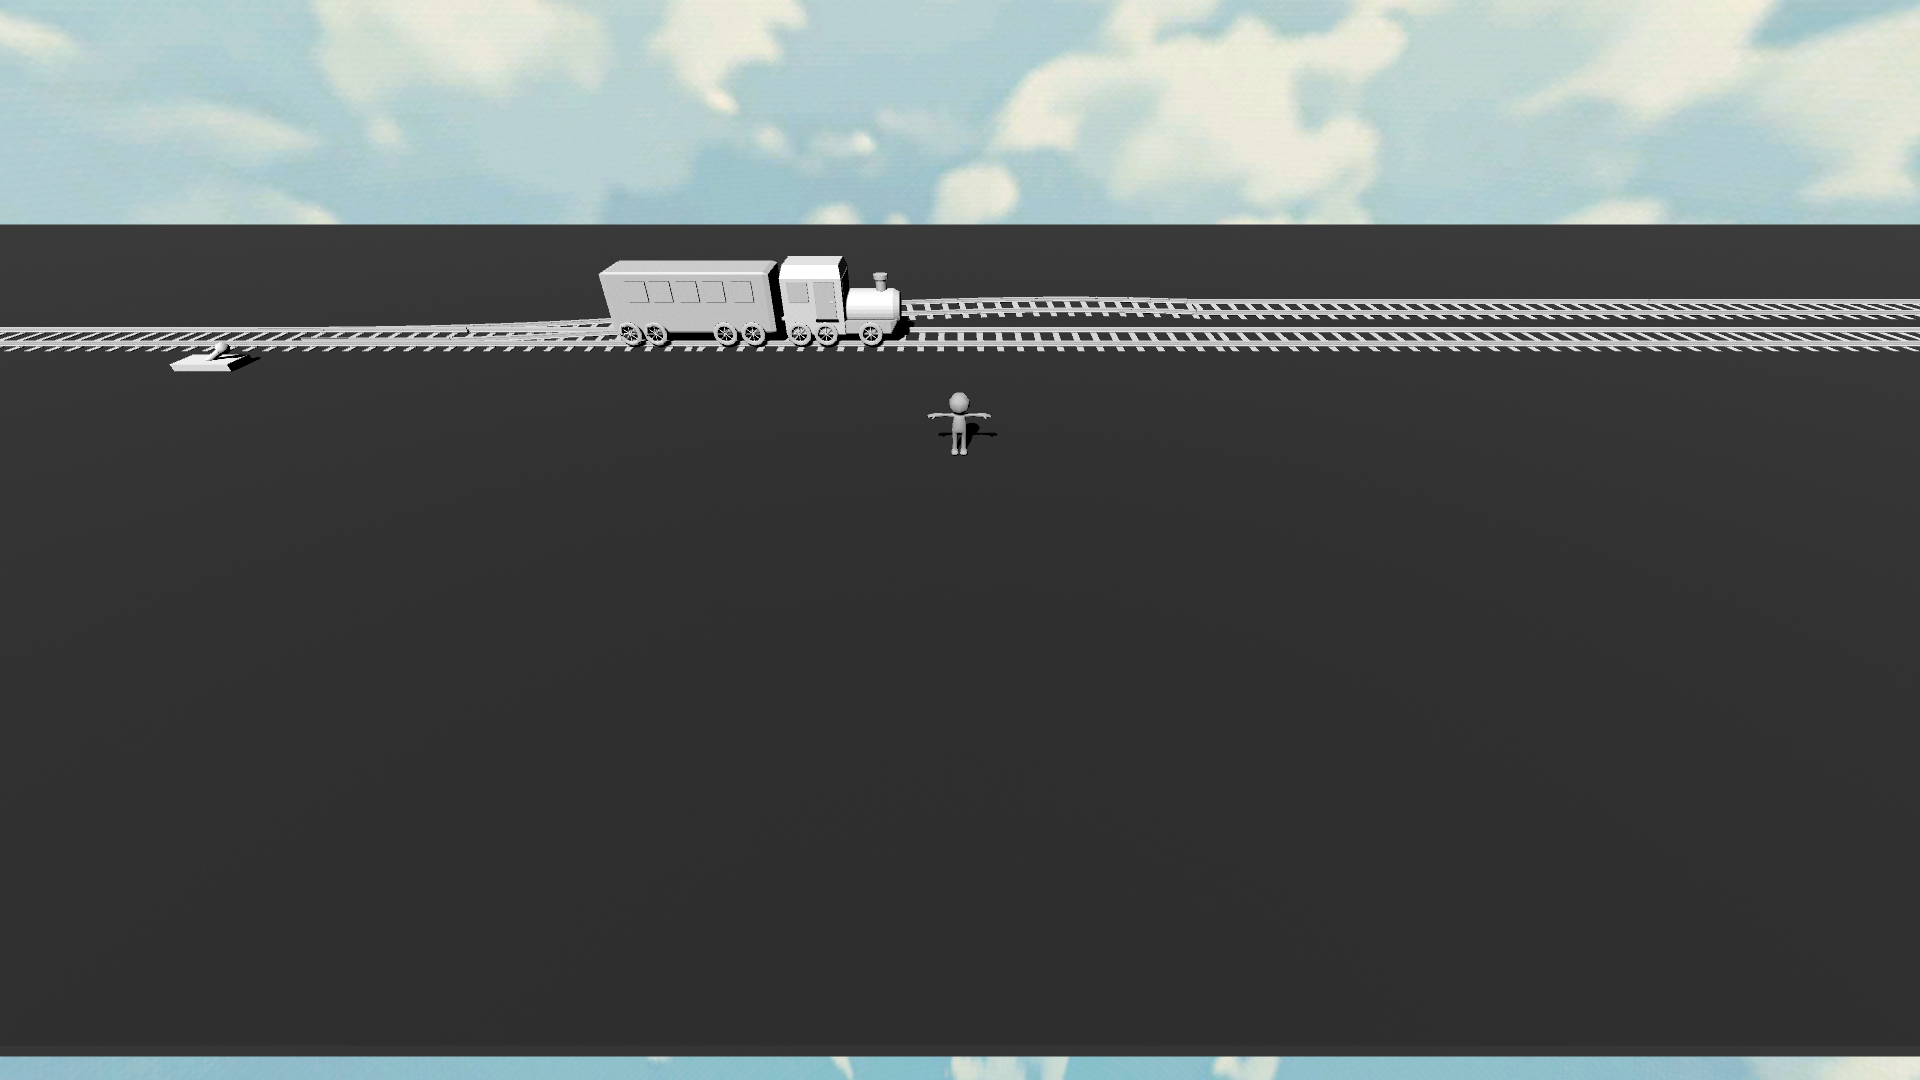
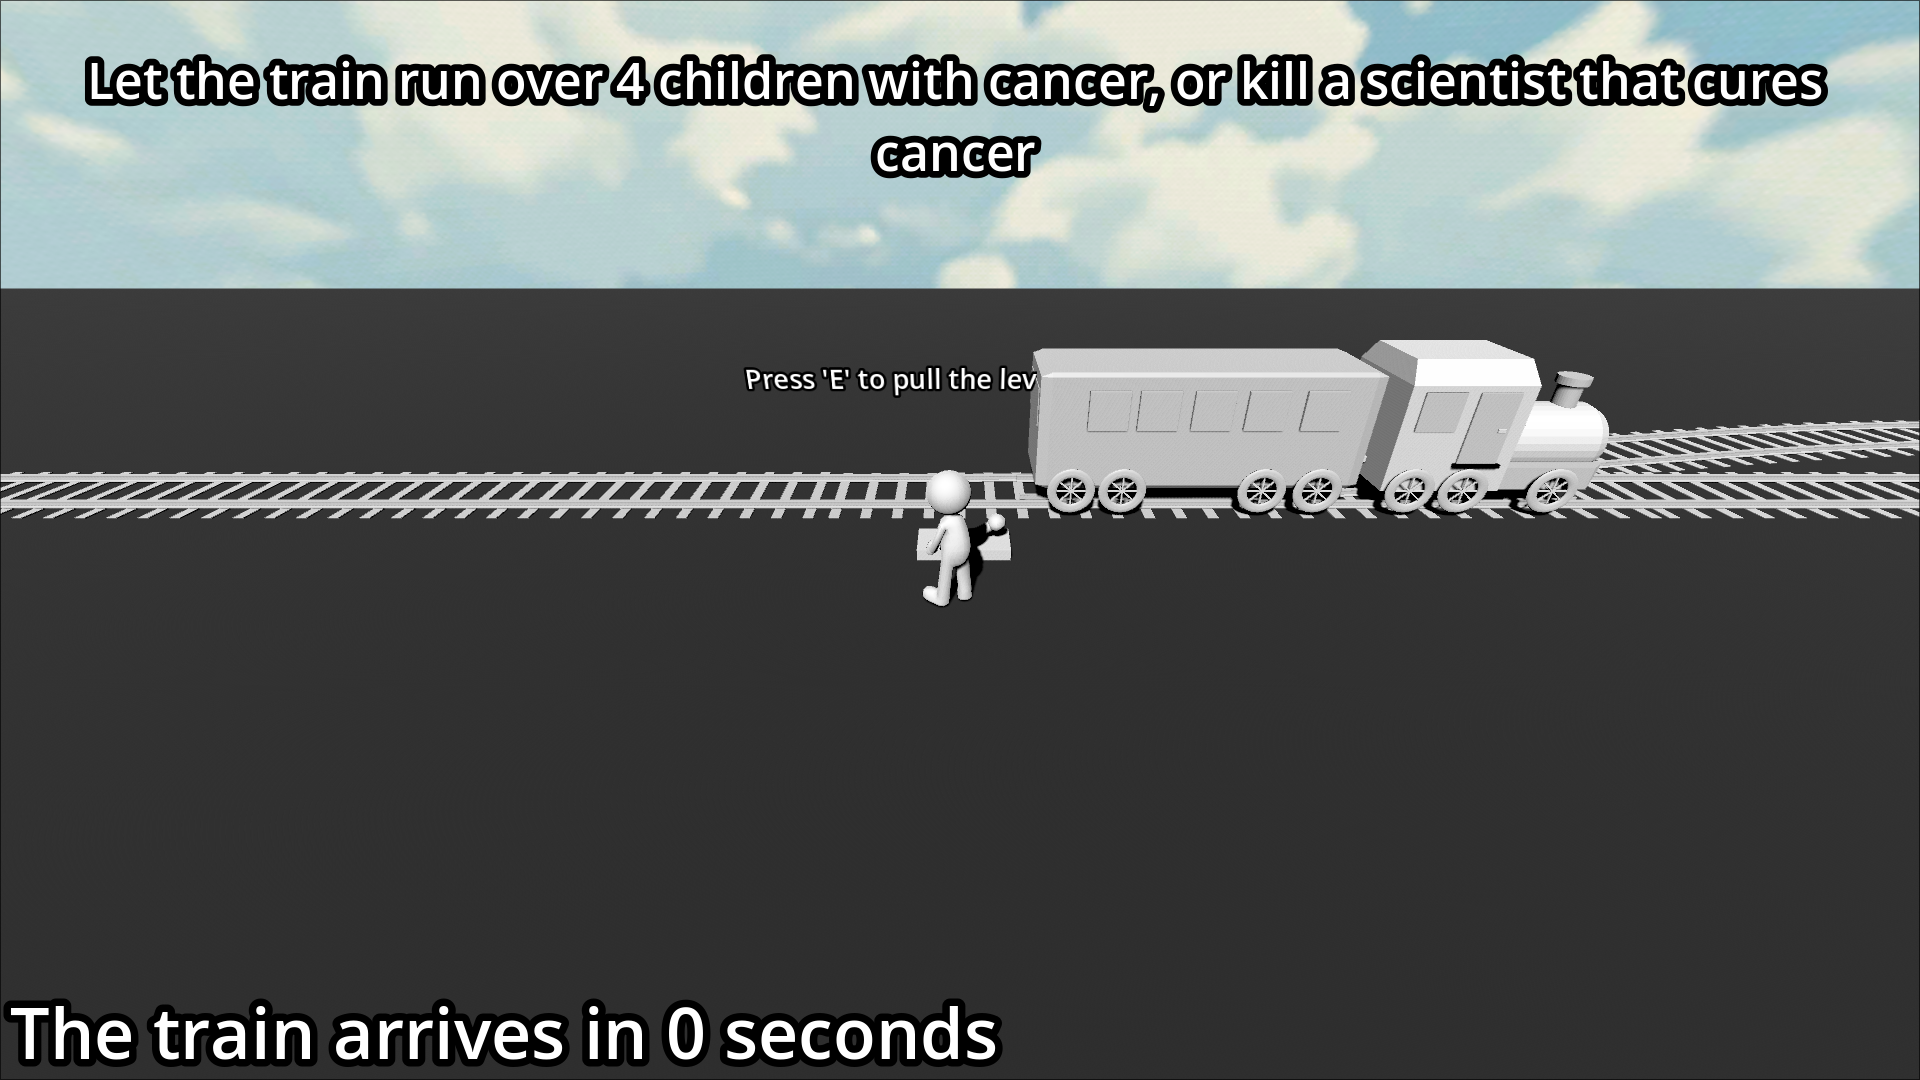
level switcher

diff --git a/README.md b/README.md
@@ -1,5 +1,5 @@
 # About
-This is a game where you pull a lever. Who would have thought?
+This is a game where you  make a decision on who you let the train run over. It can for example be your mom on one track and a scientist that's about to cure cancer on the other one and it's your decision to pull the lever.
 
 ## Screenshot
 <img src="./screenshot.png"></img>
